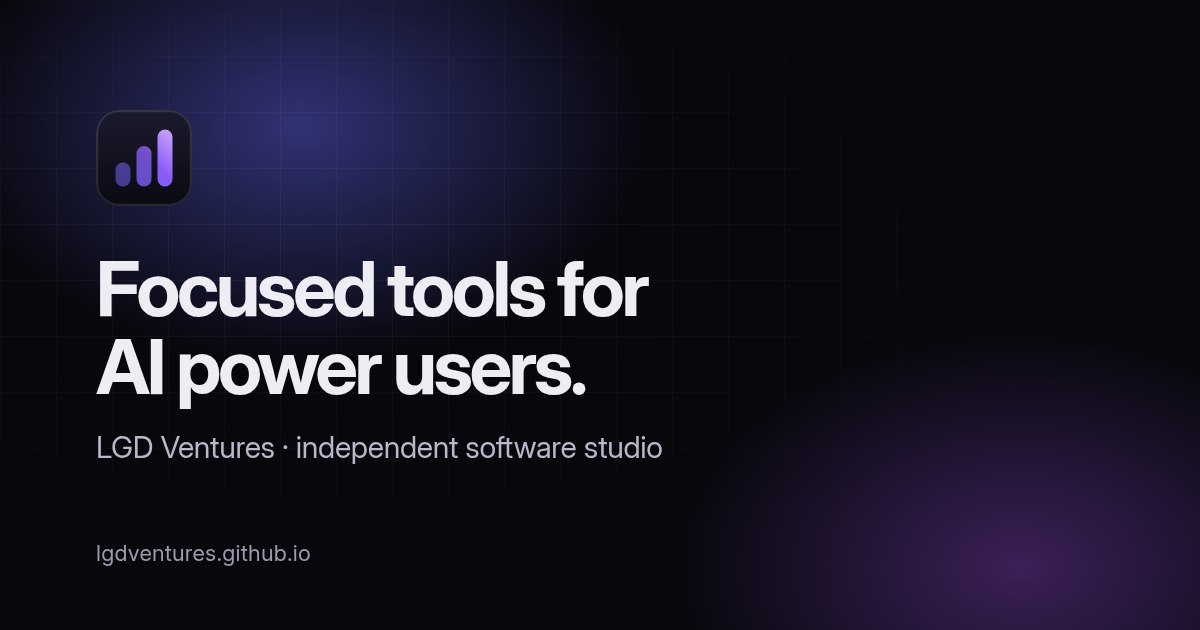
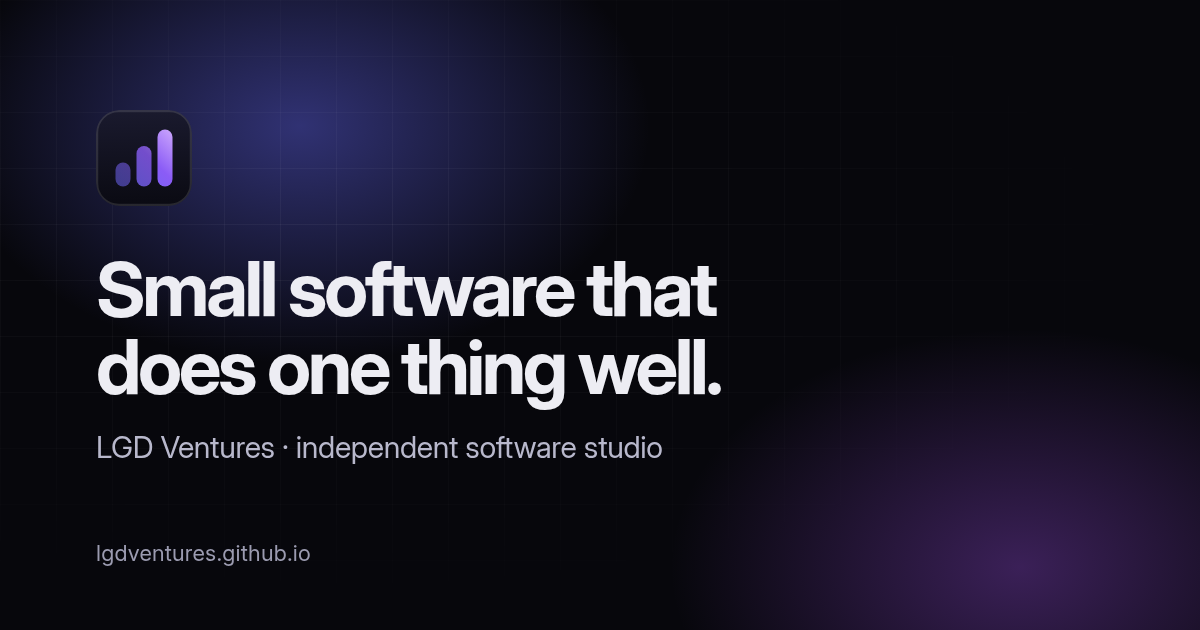
Broaden studio positioning beyond AI tools

Changed region(s): [[0.0617, 0.3921, 0.6167, 0.5127], [0.0617, 0.5429, 0.6167, 0.6635]]

diff --git a/index.html b/index.html
@@ -4,24 +4,24 @@
 <meta charset="utf-8">
 <meta name="google-site-verification" content="m0-x4oQjqwbeC7Xc7-2gkRbgRuazRiQWhtLTLNZU7bM" />
 <meta name="viewport" content="width=device-width,initial-scale=1,viewport-fit=cover">
-<title>LGD Ventures — Focused tools for AI power users</title>
-<meta name="description" content="LGD Ventures is a small, independent software studio building fast, private, focused tools for people who work with ChatGPT, Claude, Gemini and Grok every day.">
+<title>LGD Ventures — Small software that does one thing well</title>
+<meta name="description" content="LGD Ventures is a small, independent software studio building fast, private, single-purpose tools for people who work online.">
 <link rel="canonical" href="https://lgdventures.github.io/">
 <meta name="theme-color" content="#fbfbfd" media="(prefers-color-scheme: light)">
 <meta name="theme-color" content="#07070c" media="(prefers-color-scheme: dark)">
 <meta name="color-scheme" content="light dark">
 <meta property="og:type" content="website">
 <meta property="og:site_name" content="LGD Ventures">
-<meta property="og:title" content="LGD Ventures — Focused tools for AI power users">
-<meta property="og:description" content="A small, independent studio building fast, private, focused tools for people who live in ChatGPT, Claude, Gemini and Grok.">
+<meta property="og:title" content="LGD Ventures — Small software that does one thing well">
+<meta property="og:description" content="A small, independent software studio building fast, private, single-purpose tools for people who work online.">
 <meta property="og:url" content="https://lgdventures.github.io/">
 <meta property="og:image" content="https://lgdventures.github.io/assets/og.png">
 <meta property="og:image:width" content="1200">
 <meta property="og:image:height" content="630">
-<meta property="og:image:alt" content="LGD Ventures — Focused tools for AI power users">
+<meta property="og:image:alt" content="LGD Ventures — Small software that does one thing well">
 <meta name="twitter:card" content="summary_large_image">
-<meta name="twitter:title" content="LGD Ventures — Focused tools for AI power users">
-<meta name="twitter:description" content="A small, independent studio building fast, private, focused tools for AI power users.">
+<meta name="twitter:title" content="LGD Ventures — Small software that does one thing well">
+<meta name="twitter:description" content="A small, independent software studio building fast, private, single-purpose tools for people who work online.">
 <meta name="twitter:image" content="https://lgdventures.github.io/assets/og.png">
 <link rel="icon" href="favicon.ico" sizes="any">
 <link rel="icon" href="favicon.svg" type="image/svg+xml">
@@ -55,8 +55,8 @@
   <section class="hero">
     <div class="wrap">
       <a class="eyebrow" href="chatcairn/"><span class="tag">New</span>ChatCairn for Chrome is coming soon<svg class="chev" viewBox="0 0 16 16" fill="none" stroke="currentColor" stroke-width="1.8" stroke-linecap="round" stroke-linejoin="round" aria-hidden="true"><path d="M6 3.5 10.5 8 6 12.5"/></svg></a>
-      <h1>Focused tools for <br class="br-lg">AI power&nbsp;users.</h1>
-      <p class="lede">LGD Ventures is a small, independent software studio. We build fast, private, single-purpose tools for people who spend their day in ChatGPT, Claude, Gemini and Grok.</p>
+      <h1>Small software that <br class="br-lg">does one thing&nbsp;well.</h1>
+      <p class="lede">LGD Ventures is a small, independent software studio. We build fast, private, single-purpose tools for people who work online.</p>
       <div class="actions">
         <a class="btn btn-primary" href="#products">Explore products<svg class="arrow" viewBox="0 0 16 16" fill="none" stroke="currentColor" stroke-width="1.8" stroke-linecap="round" stroke-linejoin="round" aria-hidden="true"><path d="M3 8h10M9 4l4 4-4 4"/></svg></a>
         <a class="btn btn-ghost" href="#contact">Get in touch</a>
@@ -99,7 +99,7 @@
       <div class="section-head reveal">
         <span class="kicker">Products</span>
         <h2>One job each. Done really well.</h2>
-        <p>Every LGD Ventures product solves one specific problem for AI-heavy workflows, and keeps your data on your device.</p>
+        <p>Every LGD Ventures product solves one specific problem and keeps your data on your device.</p>
       </div>
       <div class="products">
         <article class="card product reveal">
@@ -120,7 +120,7 @@
         <article class="card lab reveal">
           <div class="badge"><svg viewBox="0 0 24 24" fill="none" stroke="currentColor" stroke-width="1.8" stroke-linecap="round" stroke-linejoin="round" aria-hidden="true"><path d="M9 3h6M10 3v6L4.5 18.5A1.6 1.6 0 0 0 5.9 21h12.2a1.6 1.6 0 0 0 1.4-2.5L14 9V3"/><path d="M7.5 15h9"/></svg></div>
           <h3>Next up, in the lab</h3>
-          <p>We're building the next focused tool for AI power users. Got a repetitive AI workflow that should be one click? We'd love to hear it.</p>
+          <p>We're building the next one. Got a repetitive task that should be one click? We'd love to hear it.</p>
           <div class="foot"><a class="link-arrow" href="mailto:lgdventures.hq@gmail.com?subject=Tool%20idea">Suggest a tool<svg viewBox="0 0 16 16" fill="none" stroke="currentColor" stroke-width="1.8" stroke-linecap="round" stroke-linejoin="round" aria-hidden="true"><path d="M3 8h10M9 4l4 4-4 4"/></svg></a></div>
         </article>
       </div>
